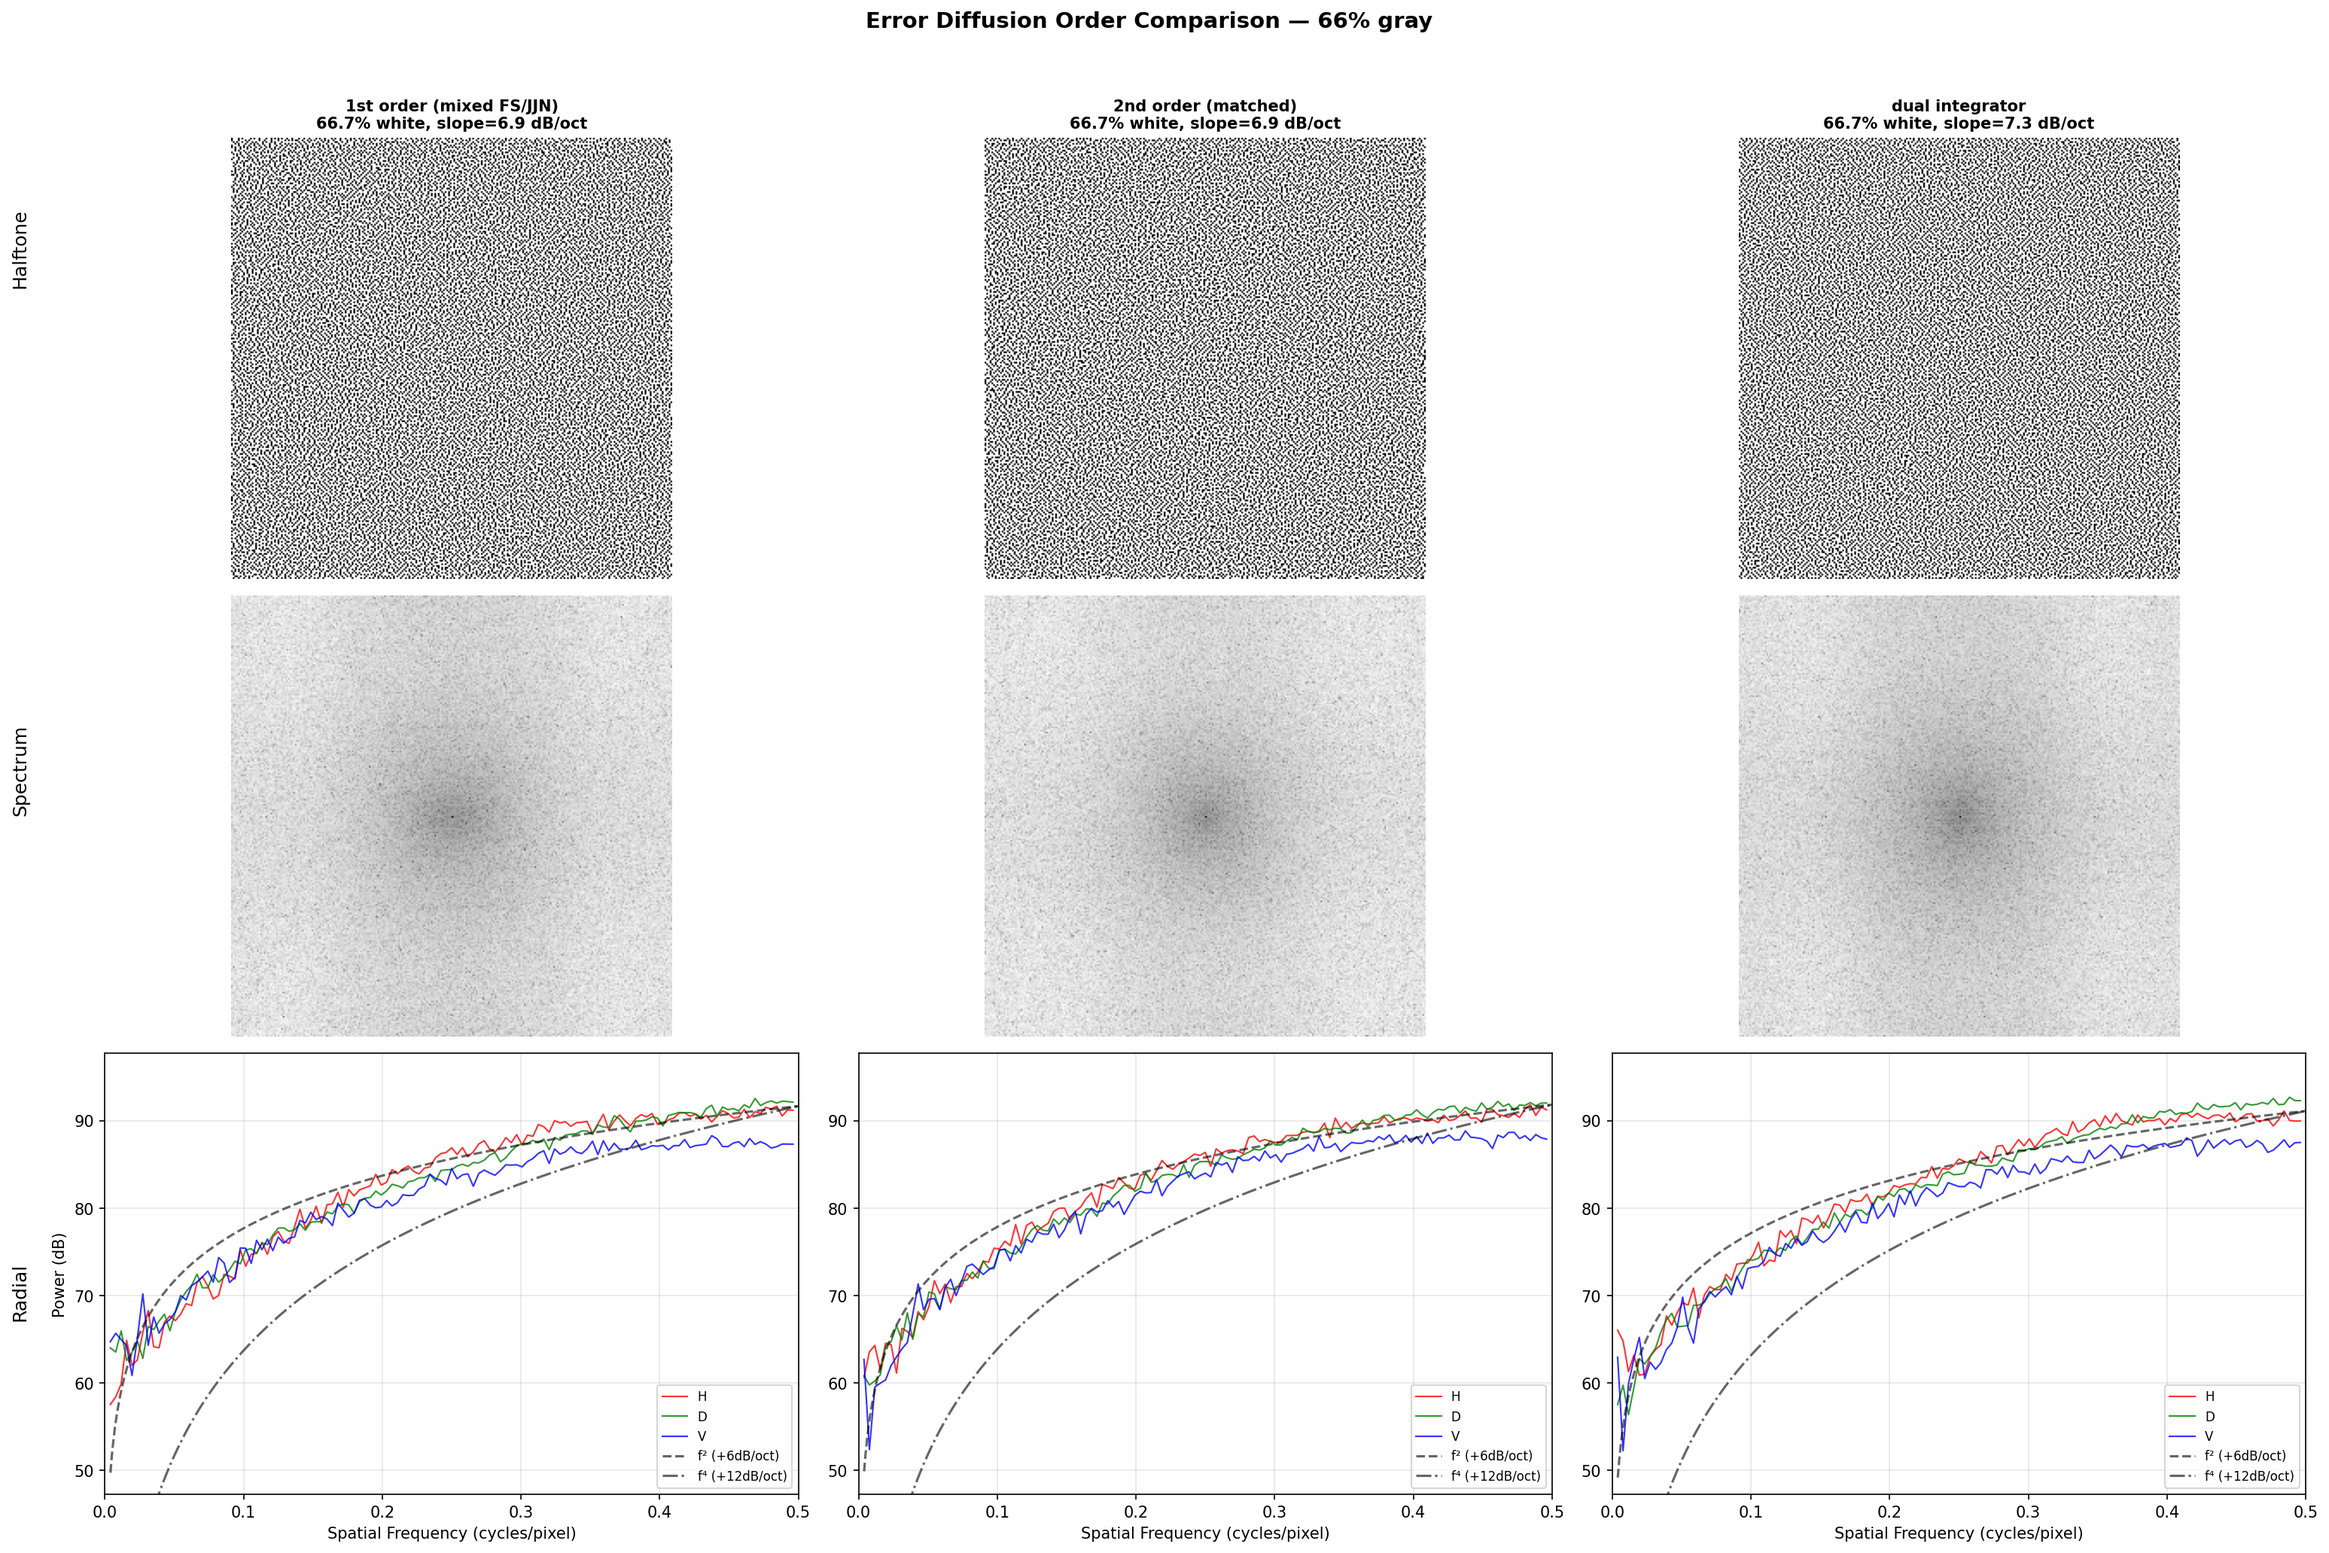
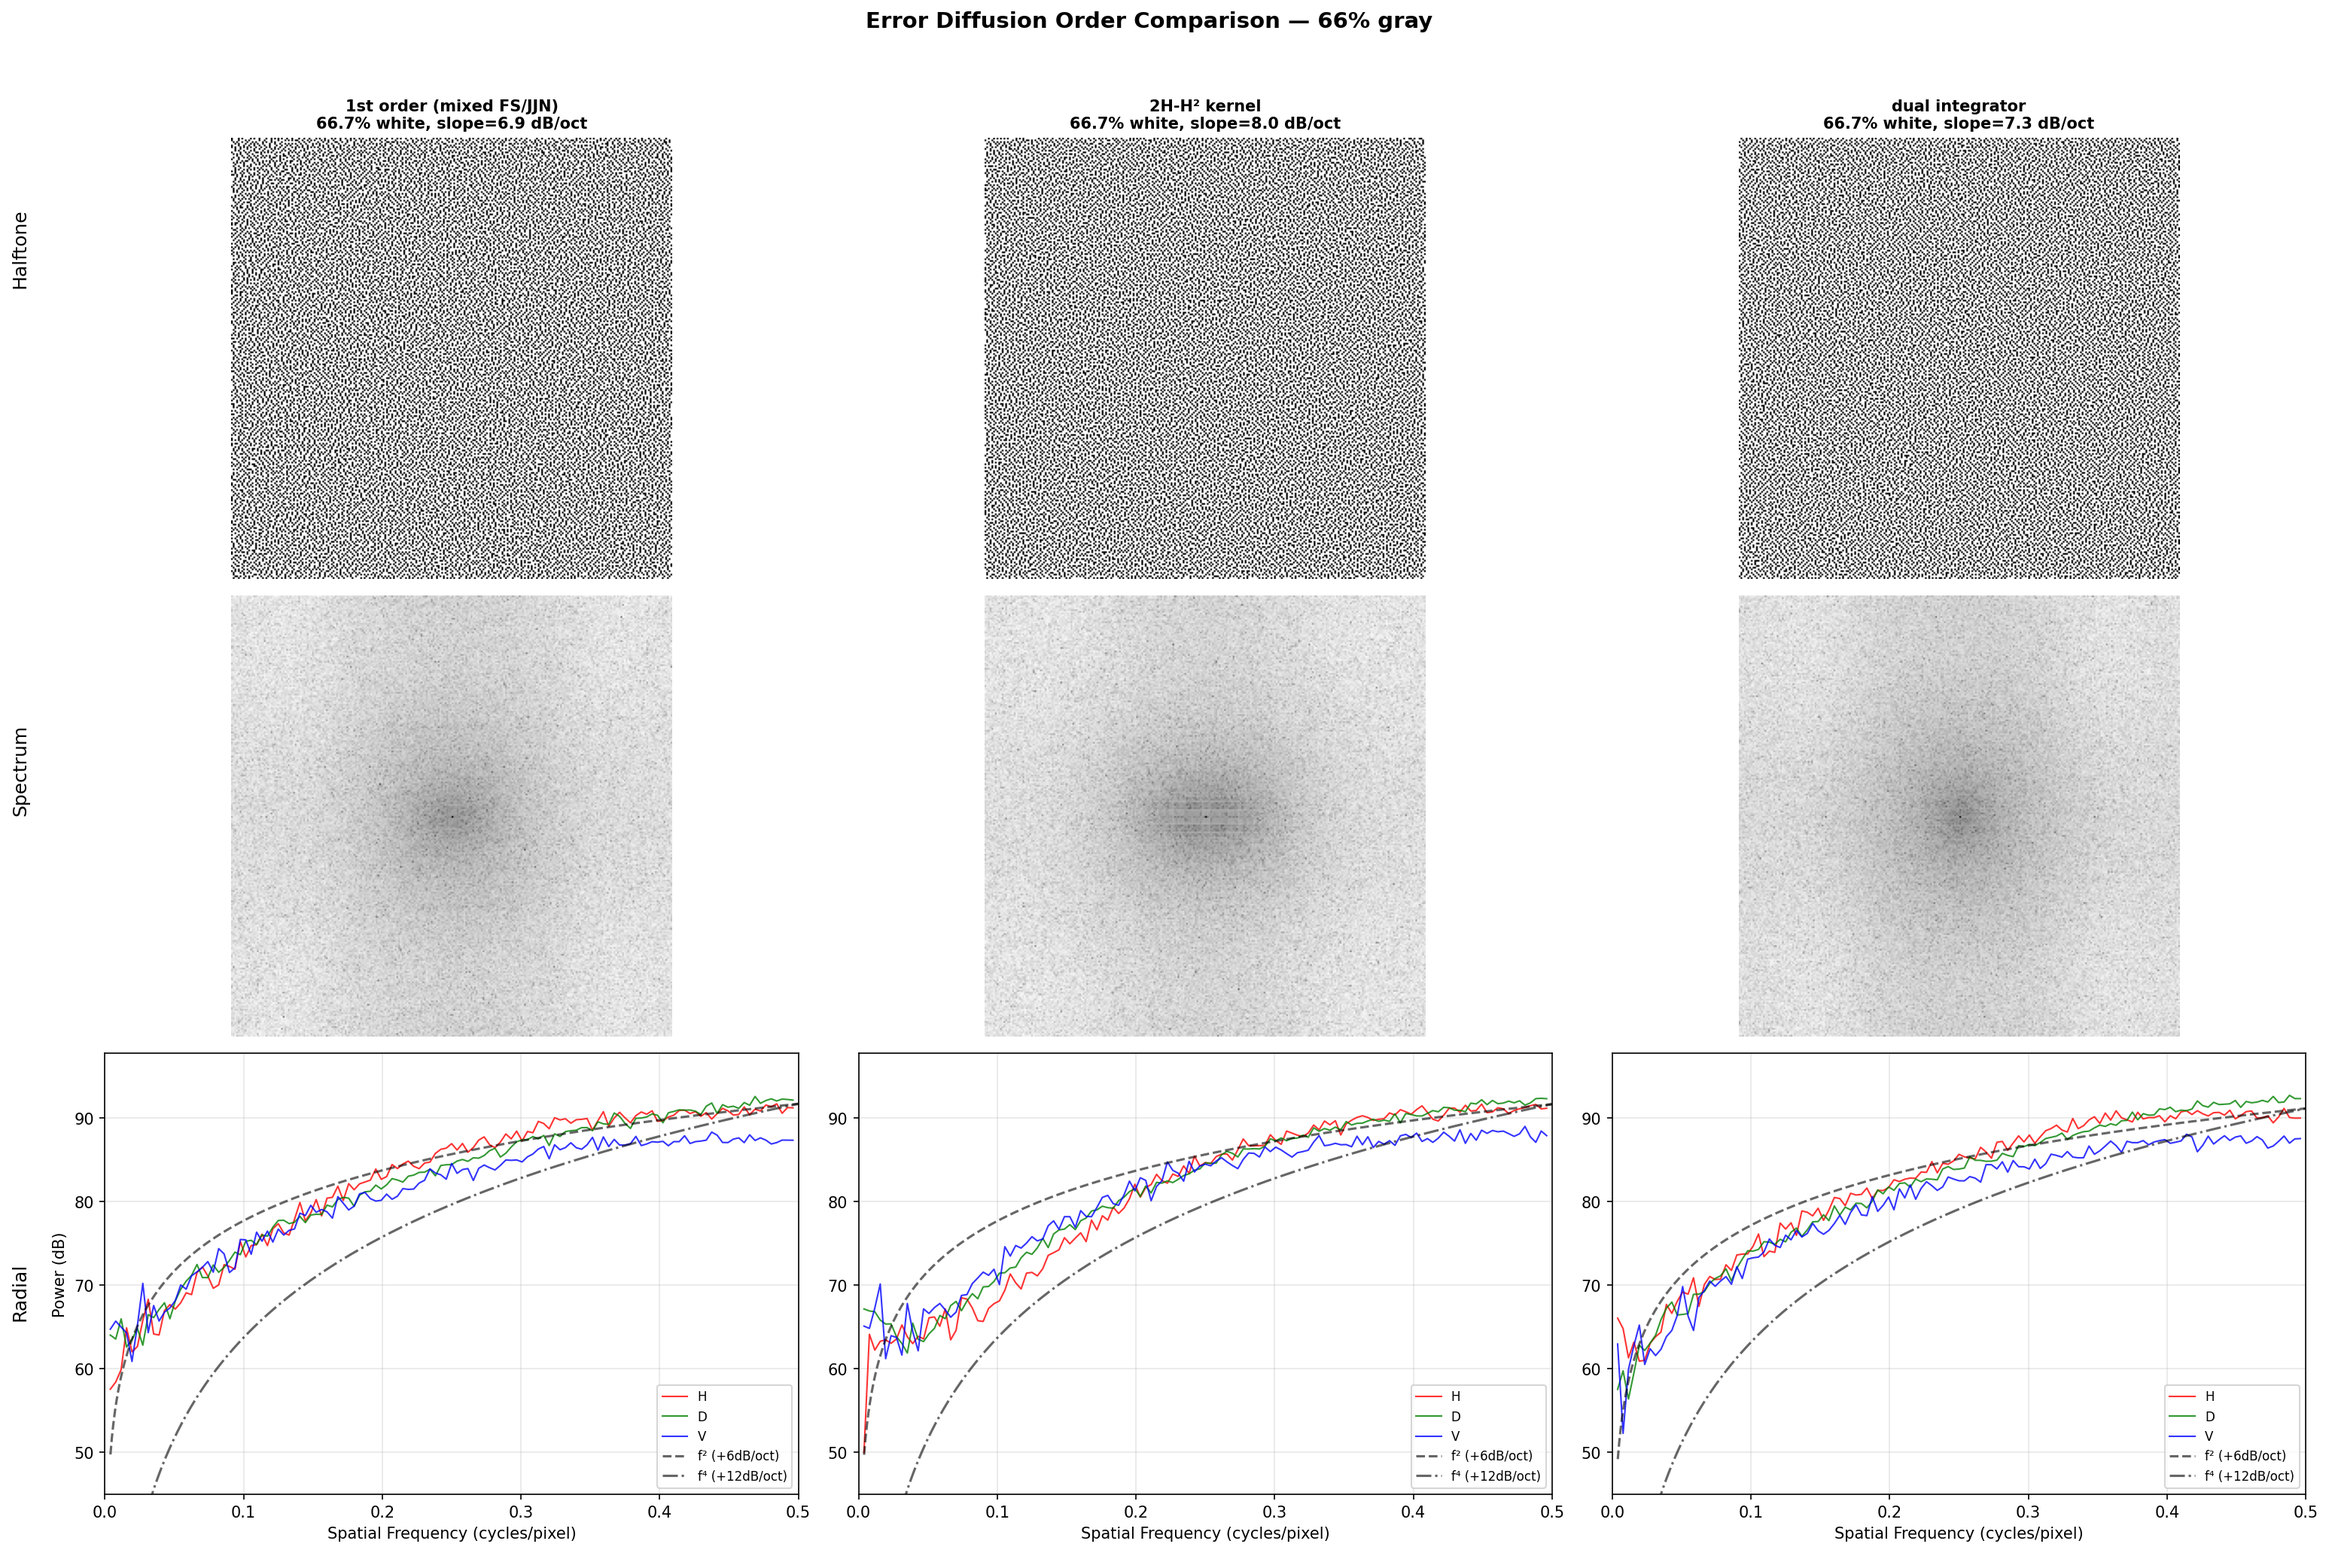
8dB

diff --git a/tools/test_twelve/second_order_dither.py b/tools/test_twelve/second_order_dither.py
@@ -162,6 +162,150 @@ def apply_error(buf, bx, y, err, use_jjn, is_rtl):
 
 
 # ============================================================================
+# Second-order kernels: 2H - H² (single-buffer approach)
+# NTF = 1 - (2H - H²) = (1-H)² → +12 dB/oct
+# These have negative weights and wider reach than the originals.
+# ============================================================================
+
+def apply_fs2_ltr(buf, bx, y, err):
+    """FS second-order kernel (2H_fs - H_fs²), LTR. Reach: dx -2..+2, dy 0..2."""
+    buf[y, bx + 1] += err * (224.0 / 256.0)
+    buf[y, bx + 2] += err * (-49.0 / 256.0)
+    buf[y + 1, bx - 1] += err * (96.0 / 256.0)
+    buf[y + 1, bx] += err * (118.0 / 256.0)
+    buf[y + 1, bx + 1] += err * (-38.0 / 256.0)
+    buf[y + 1, bx + 2] += err * (-14.0 / 256.0)
+    buf[y + 2, bx - 2] += err * (-9.0 / 256.0)
+    buf[y + 2, bx - 1] += err * (-30.0 / 256.0)
+    buf[y + 2, bx] += err * (-31.0 / 256.0)
+    buf[y + 2, bx + 1] += err * (-10.0 / 256.0)
+    buf[y + 2, bx + 2] += err * (-1.0 / 256.0)
+
+
+def apply_fs2_rtl(buf, bx, y, err):
+    """FS second-order kernel, RTL (mirror x)."""
+    buf[y, bx - 1] += err * (224.0 / 256.0)
+    buf[y, bx - 2] += err * (-49.0 / 256.0)
+    buf[y + 1, bx + 1] += err * (96.0 / 256.0)
+    buf[y + 1, bx] += err * (118.0 / 256.0)
+    buf[y + 1, bx - 1] += err * (-38.0 / 256.0)
+    buf[y + 1, bx - 2] += err * (-14.0 / 256.0)
+    buf[y + 2, bx + 2] += err * (-9.0 / 256.0)
+    buf[y + 2, bx + 1] += err * (-30.0 / 256.0)
+    buf[y + 2, bx] += err * (-31.0 / 256.0)
+    buf[y + 2, bx - 1] += err * (-10.0 / 256.0)
+    buf[y + 2, bx - 2] += err * (-1.0 / 256.0)
+
+
+def apply_jjn2_ltr(buf, bx, y, err):
+    """JJN second-order kernel (2H_jjn - H_jjn²), LTR. Reach: dx -4..+4, dy 0..4."""
+    # Row 0
+    buf[y, bx + 1] += err * (672.0 / 2304.0)
+    buf[y, bx + 2] += err * (431.0 / 2304.0)
+    buf[y, bx + 3] += err * (-70.0 / 2304.0)
+    buf[y, bx + 4] += err * (-25.0 / 2304.0)
+    # Row 1
+    buf[y + 1, bx - 2] += err * (288.0 / 2304.0)
+    buf[y + 1, bx - 1] += err * (438.0 / 2304.0)
+    buf[y + 1, bx] += err * (572.0 / 2304.0)
+    buf[y + 1, bx + 1] += err * (332.0 / 2304.0)
+    buf[y + 1, bx + 2] += err * (148.0 / 2304.0)
+    buf[y + 1, bx + 3] += err * (-92.0 / 2304.0)
+    buf[y + 1, bx + 4] += err * (-30.0 / 2304.0)
+    # Row 2
+    buf[y + 2, bx - 4] += err * (-9.0 / 2304.0)
+    buf[y + 2, bx - 3] += err * (-30.0 / 2304.0)
+    buf[y + 2, bx - 2] += err * (29.0 / 2304.0)
+    buf[y + 2, bx - 1] += err * (174.0 / 2304.0)
+    buf[y + 2, bx] += err * (311.0 / 2304.0)
+    buf[y + 2, bx + 1] += err * (88.0 / 2304.0)
+    buf[y + 2, bx + 2] += err * (-63.0 / 2304.0)
+    buf[y + 2, bx + 3] += err * (-74.0 / 2304.0)
+    buf[y + 2, bx + 4] += err * (-19.0 / 2304.0)
+    # Row 3
+    buf[y + 3, bx - 4] += err * (-6.0 / 2304.0)
+    buf[y + 3, bx - 3] += err * (-28.0 / 2304.0)
+    buf[y + 3, bx - 2] += err * (-74.0 / 2304.0)
+    buf[y + 3, bx - 1] += err * (-120.0 / 2304.0)
+    buf[y + 3, bx] += err * (-142.0 / 2304.0)
+    buf[y + 3, bx + 1] += err * (-120.0 / 2304.0)
+    buf[y + 3, bx + 2] += err * (-74.0 / 2304.0)
+    buf[y + 3, bx + 3] += err * (-28.0 / 2304.0)
+    buf[y + 3, bx + 4] += err * (-6.0 / 2304.0)
+    # Row 4
+    buf[y + 4, bx - 4] += err * (-1.0 / 2304.0)
+    buf[y + 4, bx - 3] += err * (-6.0 / 2304.0)
+    buf[y + 4, bx - 2] += err * (-19.0 / 2304.0)
+    buf[y + 4, bx - 1] += err * (-36.0 / 2304.0)
+    buf[y + 4, bx] += err * (-45.0 / 2304.0)
+    buf[y + 4, bx + 1] += err * (-36.0 / 2304.0)
+    buf[y + 4, bx + 2] += err * (-19.0 / 2304.0)
+    buf[y + 4, bx + 3] += err * (-6.0 / 2304.0)
+    buf[y + 4, bx + 4] += err * (-1.0 / 2304.0)
+
+
+def apply_jjn2_rtl(buf, bx, y, err):
+    """JJN second-order kernel, RTL (mirror x)."""
+    # Row 0
+    buf[y, bx - 1] += err * (672.0 / 2304.0)
+    buf[y, bx - 2] += err * (431.0 / 2304.0)
+    buf[y, bx - 3] += err * (-70.0 / 2304.0)
+    buf[y, bx - 4] += err * (-25.0 / 2304.0)
+    # Row 1
+    buf[y + 1, bx + 2] += err * (288.0 / 2304.0)
+    buf[y + 1, bx + 1] += err * (438.0 / 2304.0)
+    buf[y + 1, bx] += err * (572.0 / 2304.0)
+    buf[y + 1, bx - 1] += err * (332.0 / 2304.0)
+    buf[y + 1, bx - 2] += err * (148.0 / 2304.0)
+    buf[y + 1, bx - 3] += err * (-92.0 / 2304.0)
+    buf[y + 1, bx - 4] += err * (-30.0 / 2304.0)
+    # Row 2
+    buf[y + 2, bx + 4] += err * (-9.0 / 2304.0)
+    buf[y + 2, bx + 3] += err * (-30.0 / 2304.0)
+    buf[y + 2, bx + 2] += err * (29.0 / 2304.0)
+    buf[y + 2, bx + 1] += err * (174.0 / 2304.0)
+    buf[y + 2, bx] += err * (311.0 / 2304.0)
+    buf[y + 2, bx - 1] += err * (88.0 / 2304.0)
+    buf[y + 2, bx - 2] += err * (-63.0 / 2304.0)
+    buf[y + 2, bx - 3] += err * (-74.0 / 2304.0)
+    buf[y + 2, bx - 4] += err * (-19.0 / 2304.0)
+    # Row 3
+    buf[y + 3, bx + 4] += err * (-6.0 / 2304.0)
+    buf[y + 3, bx + 3] += err * (-28.0 / 2304.0)
+    buf[y + 3, bx + 2] += err * (-74.0 / 2304.0)
+    buf[y + 3, bx + 1] += err * (-120.0 / 2304.0)
+    buf[y + 3, bx] += err * (-142.0 / 2304.0)
+    buf[y + 3, bx - 1] += err * (-120.0 / 2304.0)
+    buf[y + 3, bx - 2] += err * (-74.0 / 2304.0)
+    buf[y + 3, bx - 3] += err * (-28.0 / 2304.0)
+    buf[y + 3, bx - 4] += err * (-6.0 / 2304.0)
+    # Row 4
+    buf[y + 4, bx + 4] += err * (-1.0 / 2304.0)
+    buf[y + 4, bx + 3] += err * (-6.0 / 2304.0)
+    buf[y + 4, bx + 2] += err * (-19.0 / 2304.0)
+    buf[y + 4, bx + 1] += err * (-36.0 / 2304.0)
+    buf[y + 4, bx] += err * (-45.0 / 2304.0)
+    buf[y + 4, bx - 1] += err * (-36.0 / 2304.0)
+    buf[y + 4, bx - 2] += err * (-19.0 / 2304.0)
+    buf[y + 4, bx - 3] += err * (-6.0 / 2304.0)
+    buf[y + 4, bx - 4] += err * (-1.0 / 2304.0)
+
+
+def apply_error_2nd(buf, bx, y, err, use_jjn, is_rtl):
+    """Apply second-order (2H - H²) kernel."""
+    if use_jjn:
+        if is_rtl:
+            apply_jjn2_rtl(buf, bx, y, err)
+        else:
+            apply_jjn2_ltr(buf, bx, y, err)
+    else:
+        if is_rtl:
+            apply_fs2_rtl(buf, bx, y, err)
+        else:
+            apply_fs2_ltr(buf, bx, y, err)
+
+
+# ============================================================================
 # Reverse kernel lookup (for second-order prediction, padded buffer coords)
 # ============================================================================
 
@@ -374,6 +518,79 @@ def dither_dual_integrator(input_image, seed=0):
     return extract_result(buf1, width, height)
 
 
+REACH_2ND = 4  # JJN² kernel radius (dx ±4, dy 0..4)
+
+
+def create_seeded_buffer_r4(input_image):
+    """Create padded buffer with reach=4 for second-order kernels."""
+    height, width = input_image.shape
+    r = REACH_2ND
+    total_left = r * 2
+    total_right = r * 2
+    total_top = r
+    total_bottom = r
+
+    buf_width = total_left + width + total_right
+    buf_height = total_top + height + total_bottom
+    buf = np.zeros((buf_height, buf_width), dtype=np.float64)
+
+    buf[total_top:total_top + height, total_left:total_left + width] = input_image
+
+    seed_left_start = r
+    seed_right_start = total_left + width
+
+    for sx in range(r):
+        buf[total_top:total_top + height, seed_left_start + sx] = input_image[:, 0]
+    for sx in range(r):
+        buf[total_top:total_top + height, seed_right_start + sx] = input_image[:, -1]
+    for sy in range(r):
+        for sx in range(r):
+            buf[sy, seed_left_start + sx] = input_image[0, 0]
+        buf[sy, total_left:total_left + width] = input_image[0, :]
+        for sx in range(r):
+            buf[sy, seed_right_start + sx] = input_image[0, -1]
+
+    return buf
+
+
+def dither_kernel_2nd(input_image, seed=0):
+    """Second-order error diffusion using precomputed 2H-H² kernels.
+
+    Uses the composite kernel K = 2H - H² directly in standard error diffusion.
+    NTF = 1 - K = 1 - (2H - H²) = (1-H)² → +12 dB/octave.
+    Single buffer, no reverse lookup needed.
+    """
+    height, width = input_image.shape
+    r = REACH_2ND
+    buf = create_seeded_buffer_r4(input_image)
+    hashed_seed = lowbias32(np.uint32(seed))
+
+    bx_start = r  # skip left overshoot
+    process_height = r + height
+    process_width = r + width + r
+
+    for y in range(process_height):
+        is_rtl = y % 2 == 1
+        px_range = range(process_width - 1, -1, -1) if is_rtl else range(process_width)
+
+        for px in px_range:
+            bx = bx_start + px
+            old_val = buf[y, bx]
+            new_val = 1.0 if old_val > 0.5 else 0.0
+            buf[y, bx] = new_val
+            err = old_val - new_val
+
+            img_x = max(px - r, 0)
+            img_y = max(y - r, 0)
+            coord_hash = lowbias32(np.uint32(img_x) ^ (np.uint32(img_y) << np.uint32(16)) ^ hashed_seed)
+            use_jjn = (coord_hash & 1) == 1
+            apply_error_2nd(buf, bx, y, err, use_jjn, is_rtl)
+
+    total_left = r * 2
+    total_top = r
+    return buf[total_top:total_top + height, total_left:total_left + width].copy()
+
+
 # ============================================================================
 # Spectral analysis
 # ============================================================================
@@ -448,7 +665,7 @@ def analyze_gray(gray_val, output_dir, size=256, seed=0):
 
     methods = [
         ('1st order (mixed FS/JJN)', dither_first_order),
-        ('2nd order (matched)', dither_second_order),
+        ('2H-H² kernel', dither_kernel_2nd),
         ('dual integrator', dither_dual_integrator),
     ]
 
@@ -522,7 +739,7 @@ def analyze_gradient(output_dir, size=256, seed=0):
 
     methods = [
         ('1st order', dither_first_order),
-        ('2nd order (matched)', dither_second_order),
+        ('2H-H² kernel', dither_kernel_2nd),
         ('dual integrator', dither_dual_integrator),
     ]
 
@@ -562,7 +779,7 @@ def process_image(image_path, output_dir, seed=0):
     stem = Path(image_path).stem
 
     # Standard methods
-    for label, fn in [('1st_order', dither_first_order), ('2nd_order_matched', dither_second_order), ('dual_int', dither_dual_integrator)]:
+    for label, fn in [('1st_order', dither_first_order), ('2H_H2_kernel', dither_kernel_2nd), ('dual_int', dither_dual_integrator)]:
         result = fn(input_image, seed=seed)
         out_img = (result * 255).astype(np.uint8)
         path = output_dir / f"{stem}_{label}.png"
